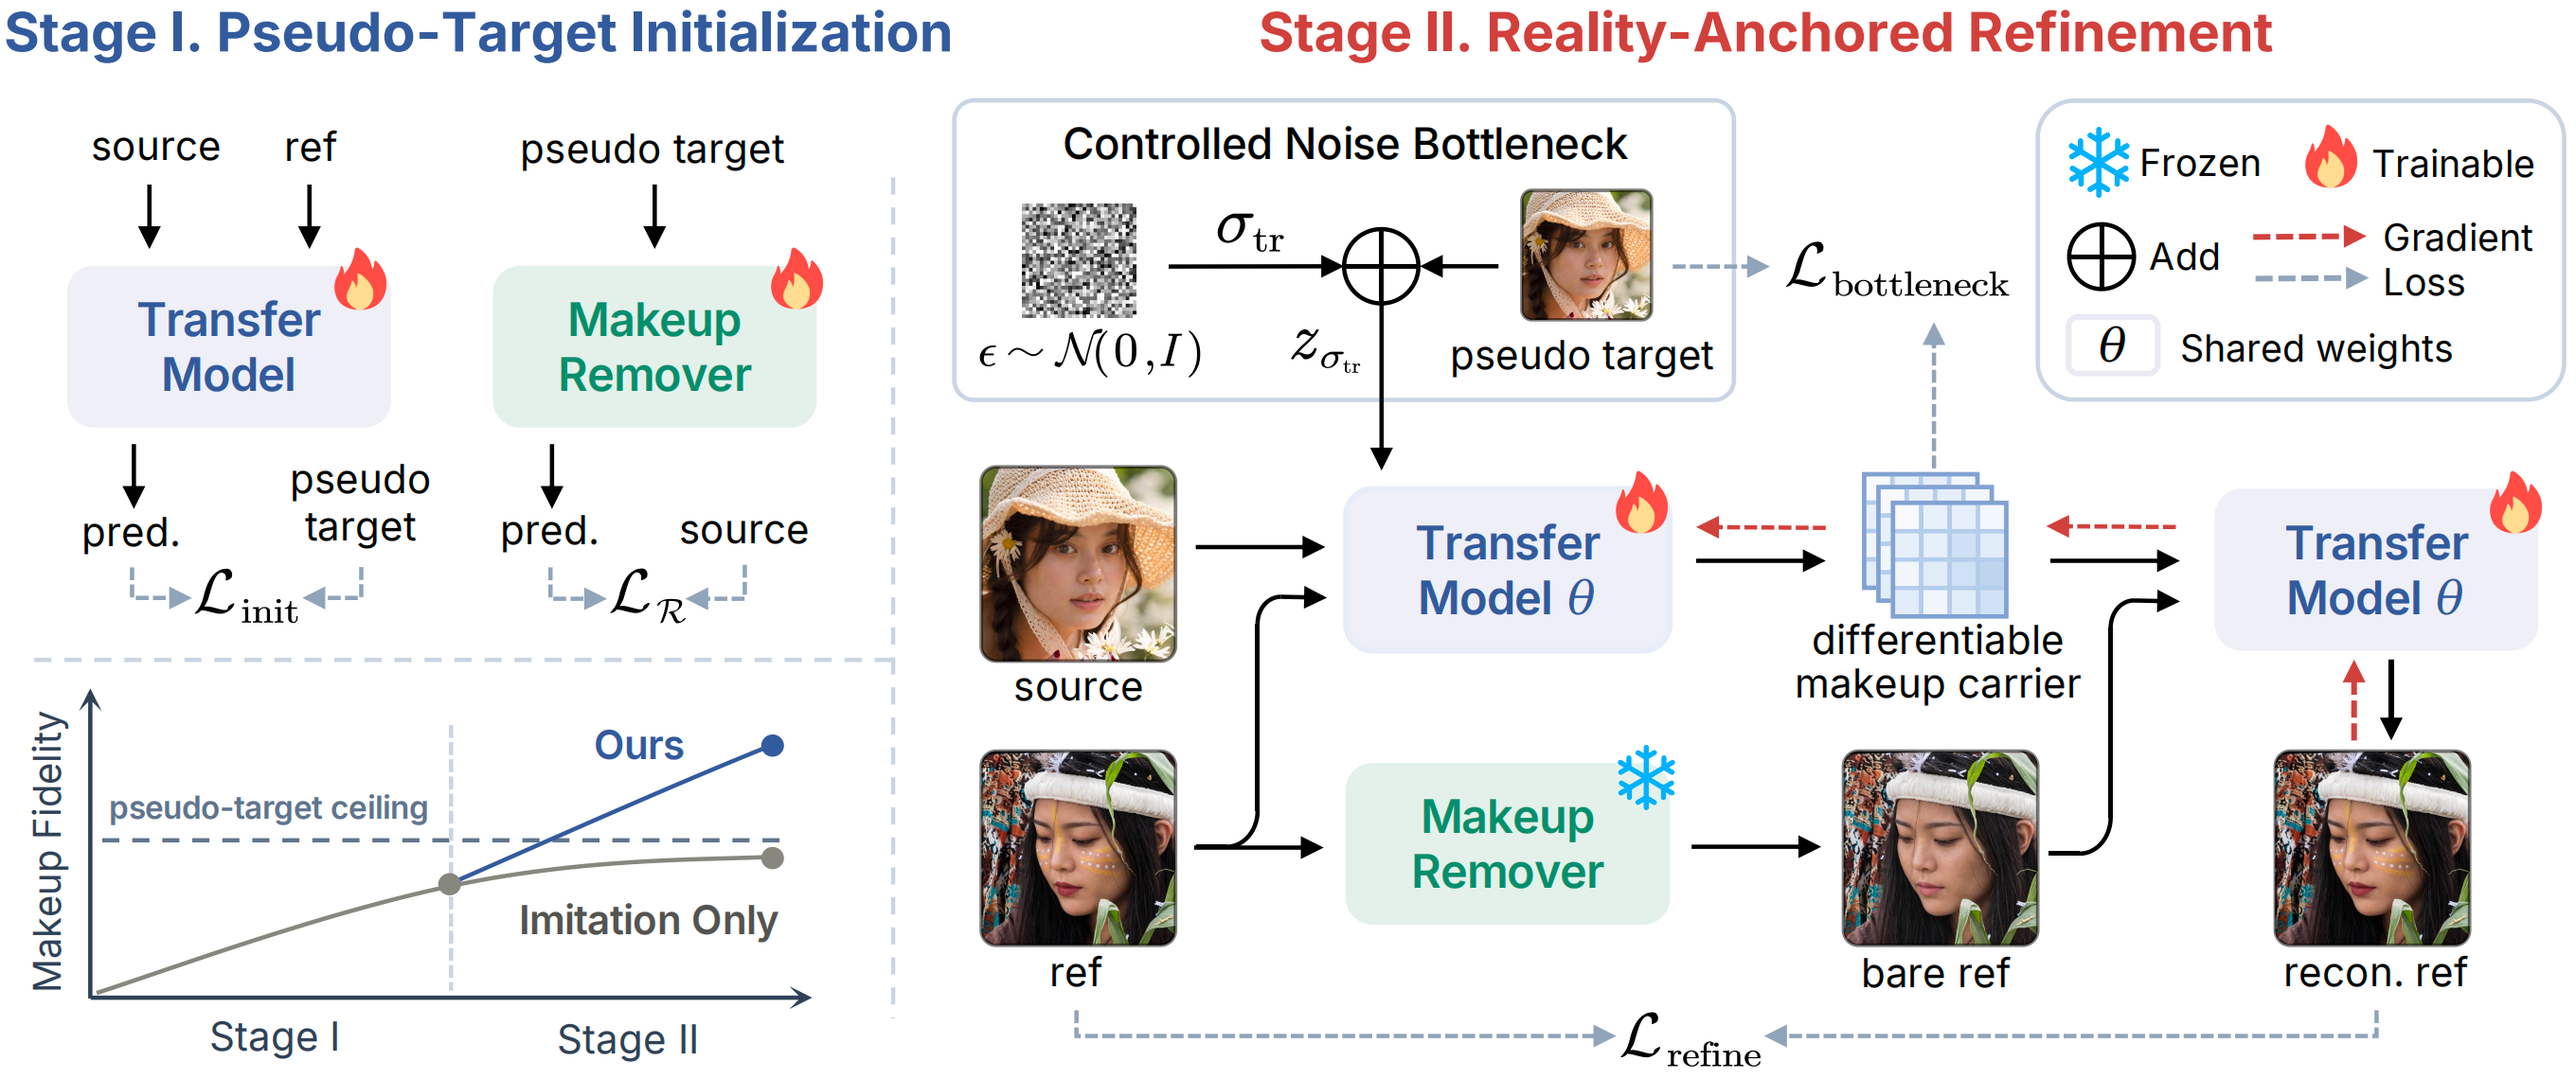
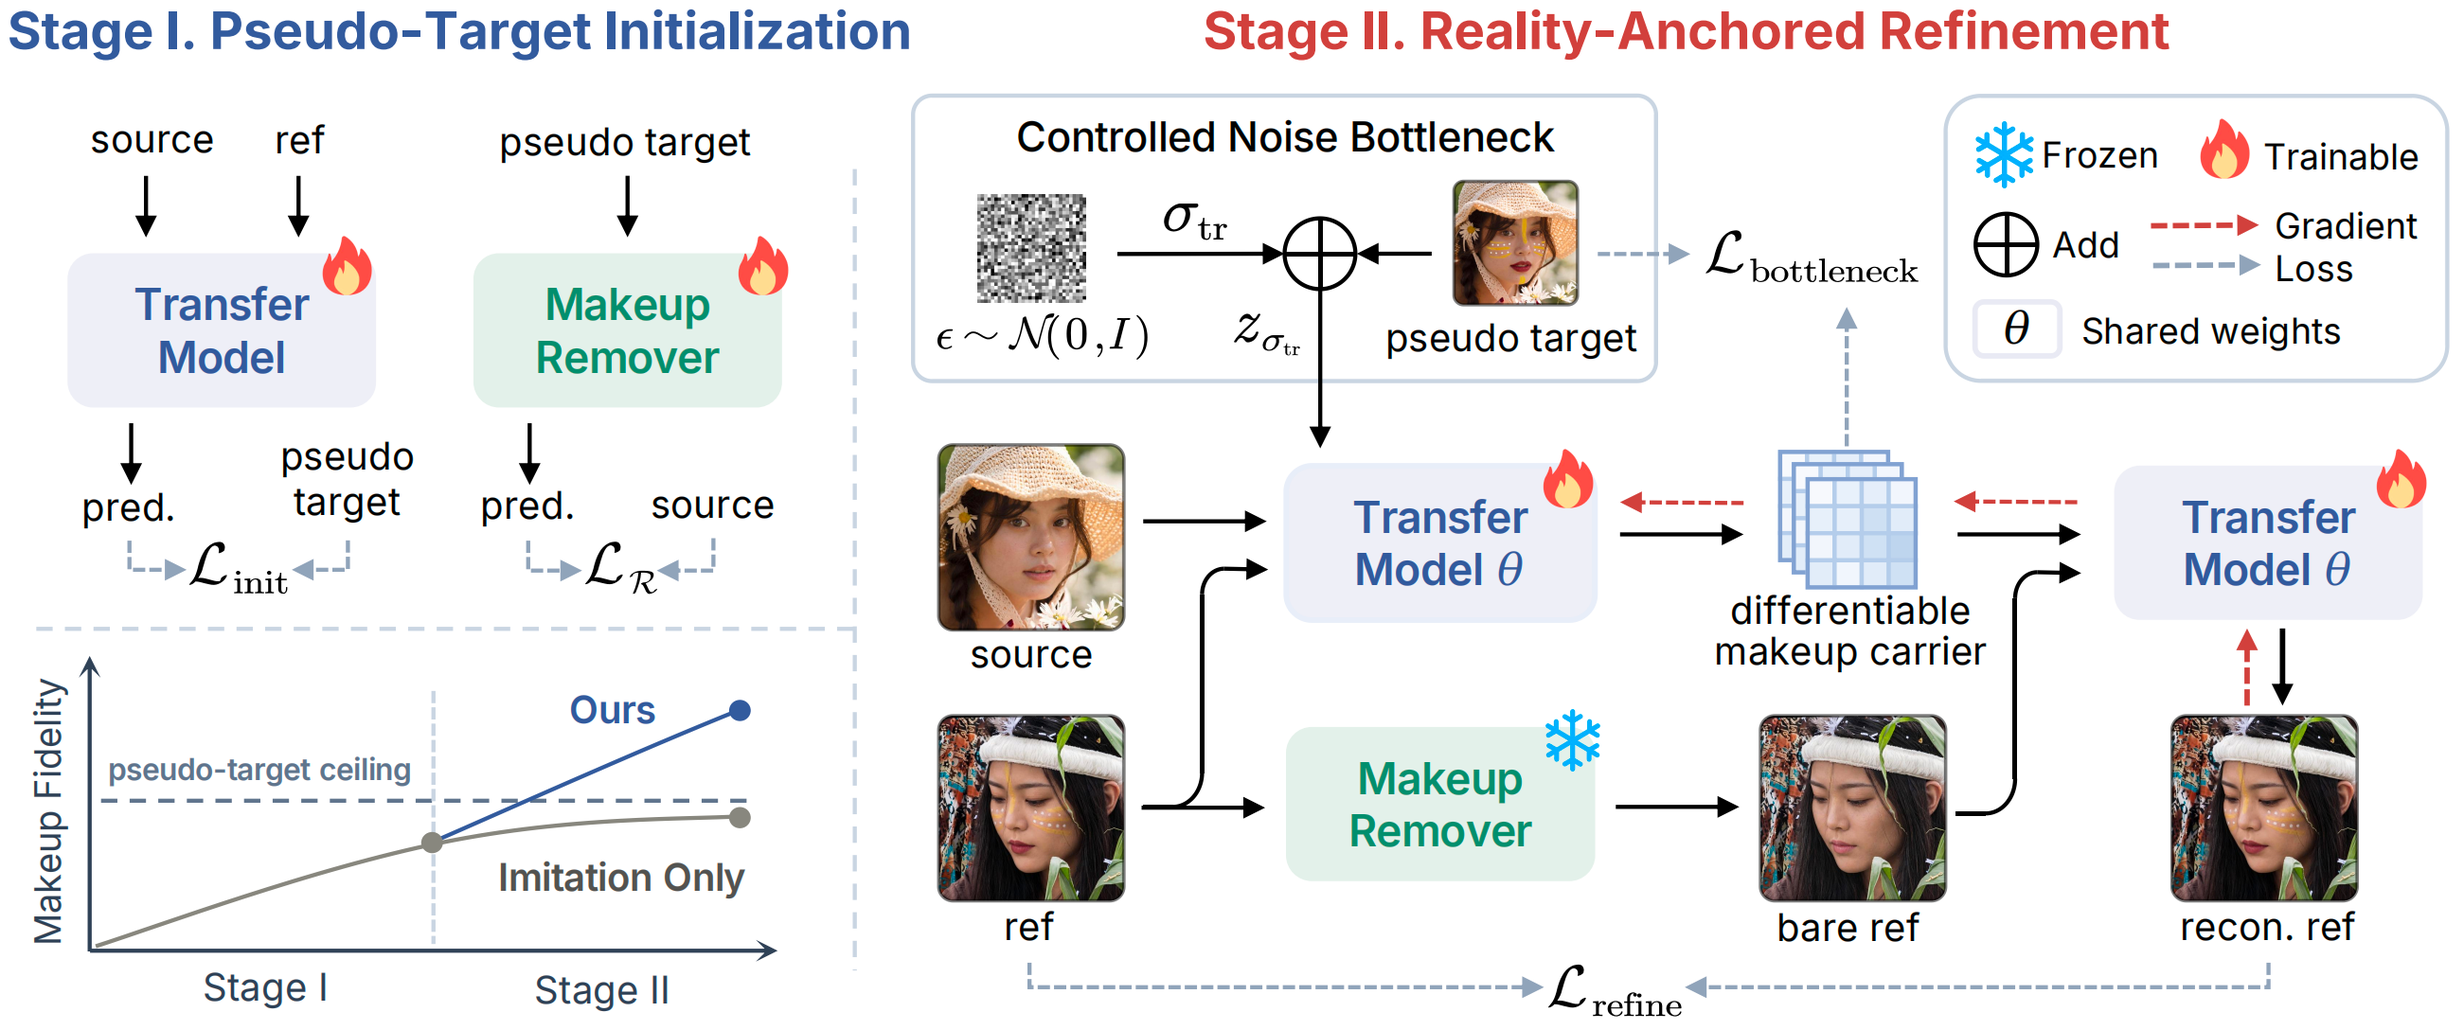
Update

diff --git a/index.html b/index.html
@@ -195,7 +195,7 @@
           <svg viewBox="0 0 24 24" fill="none" stroke="currentColor"><rect x="3" y="4" width="18" height="16" rx="2"/><path d="M3 9h18M7 6.5h.01M10 6.5h.01"/></svg>
           Demo
         </a>
-        <a href="#" class="link-btn">
+        <a href="https://github.com/csbowei/ART#-datasets" class="link-btn">
           <svg viewBox="0 0 24 24" fill="none" stroke="currentColor"><ellipse cx="12" cy="5" rx="9" ry="3"/><path d="M21 12c0 1.66-4 3-9 3s-9-1.34-9-3M3 5v14c0 1.66 4 3 9 3s9-1.34 9-3V5"/></svg>
           Dataset
         </a>
